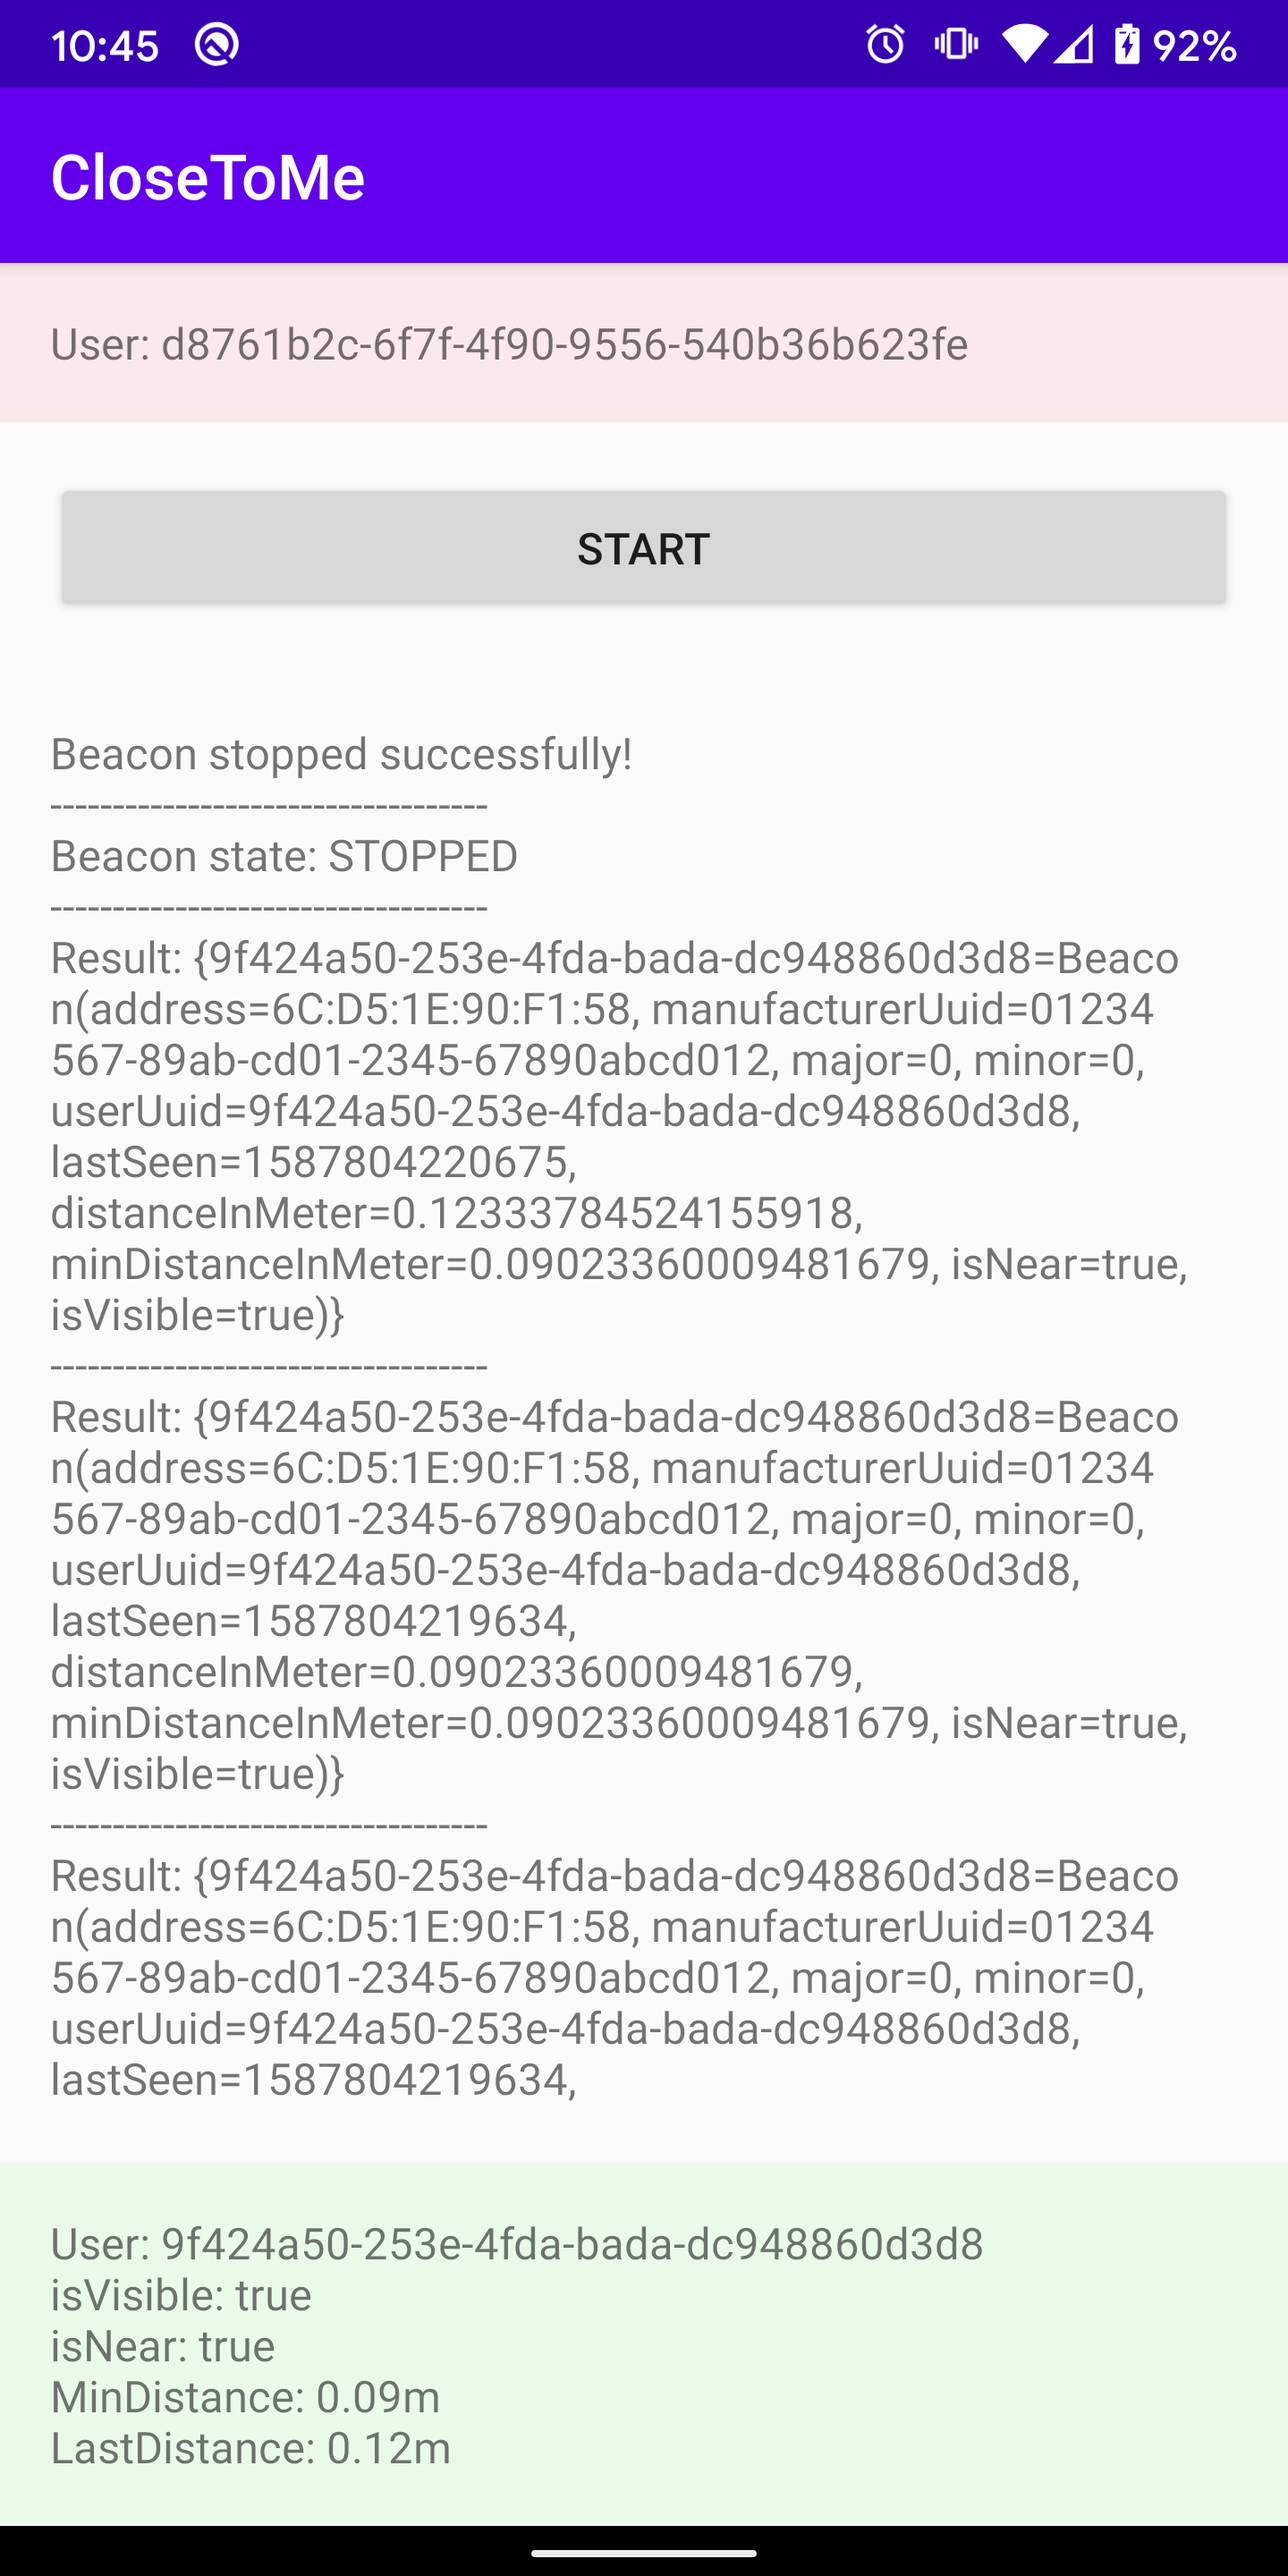
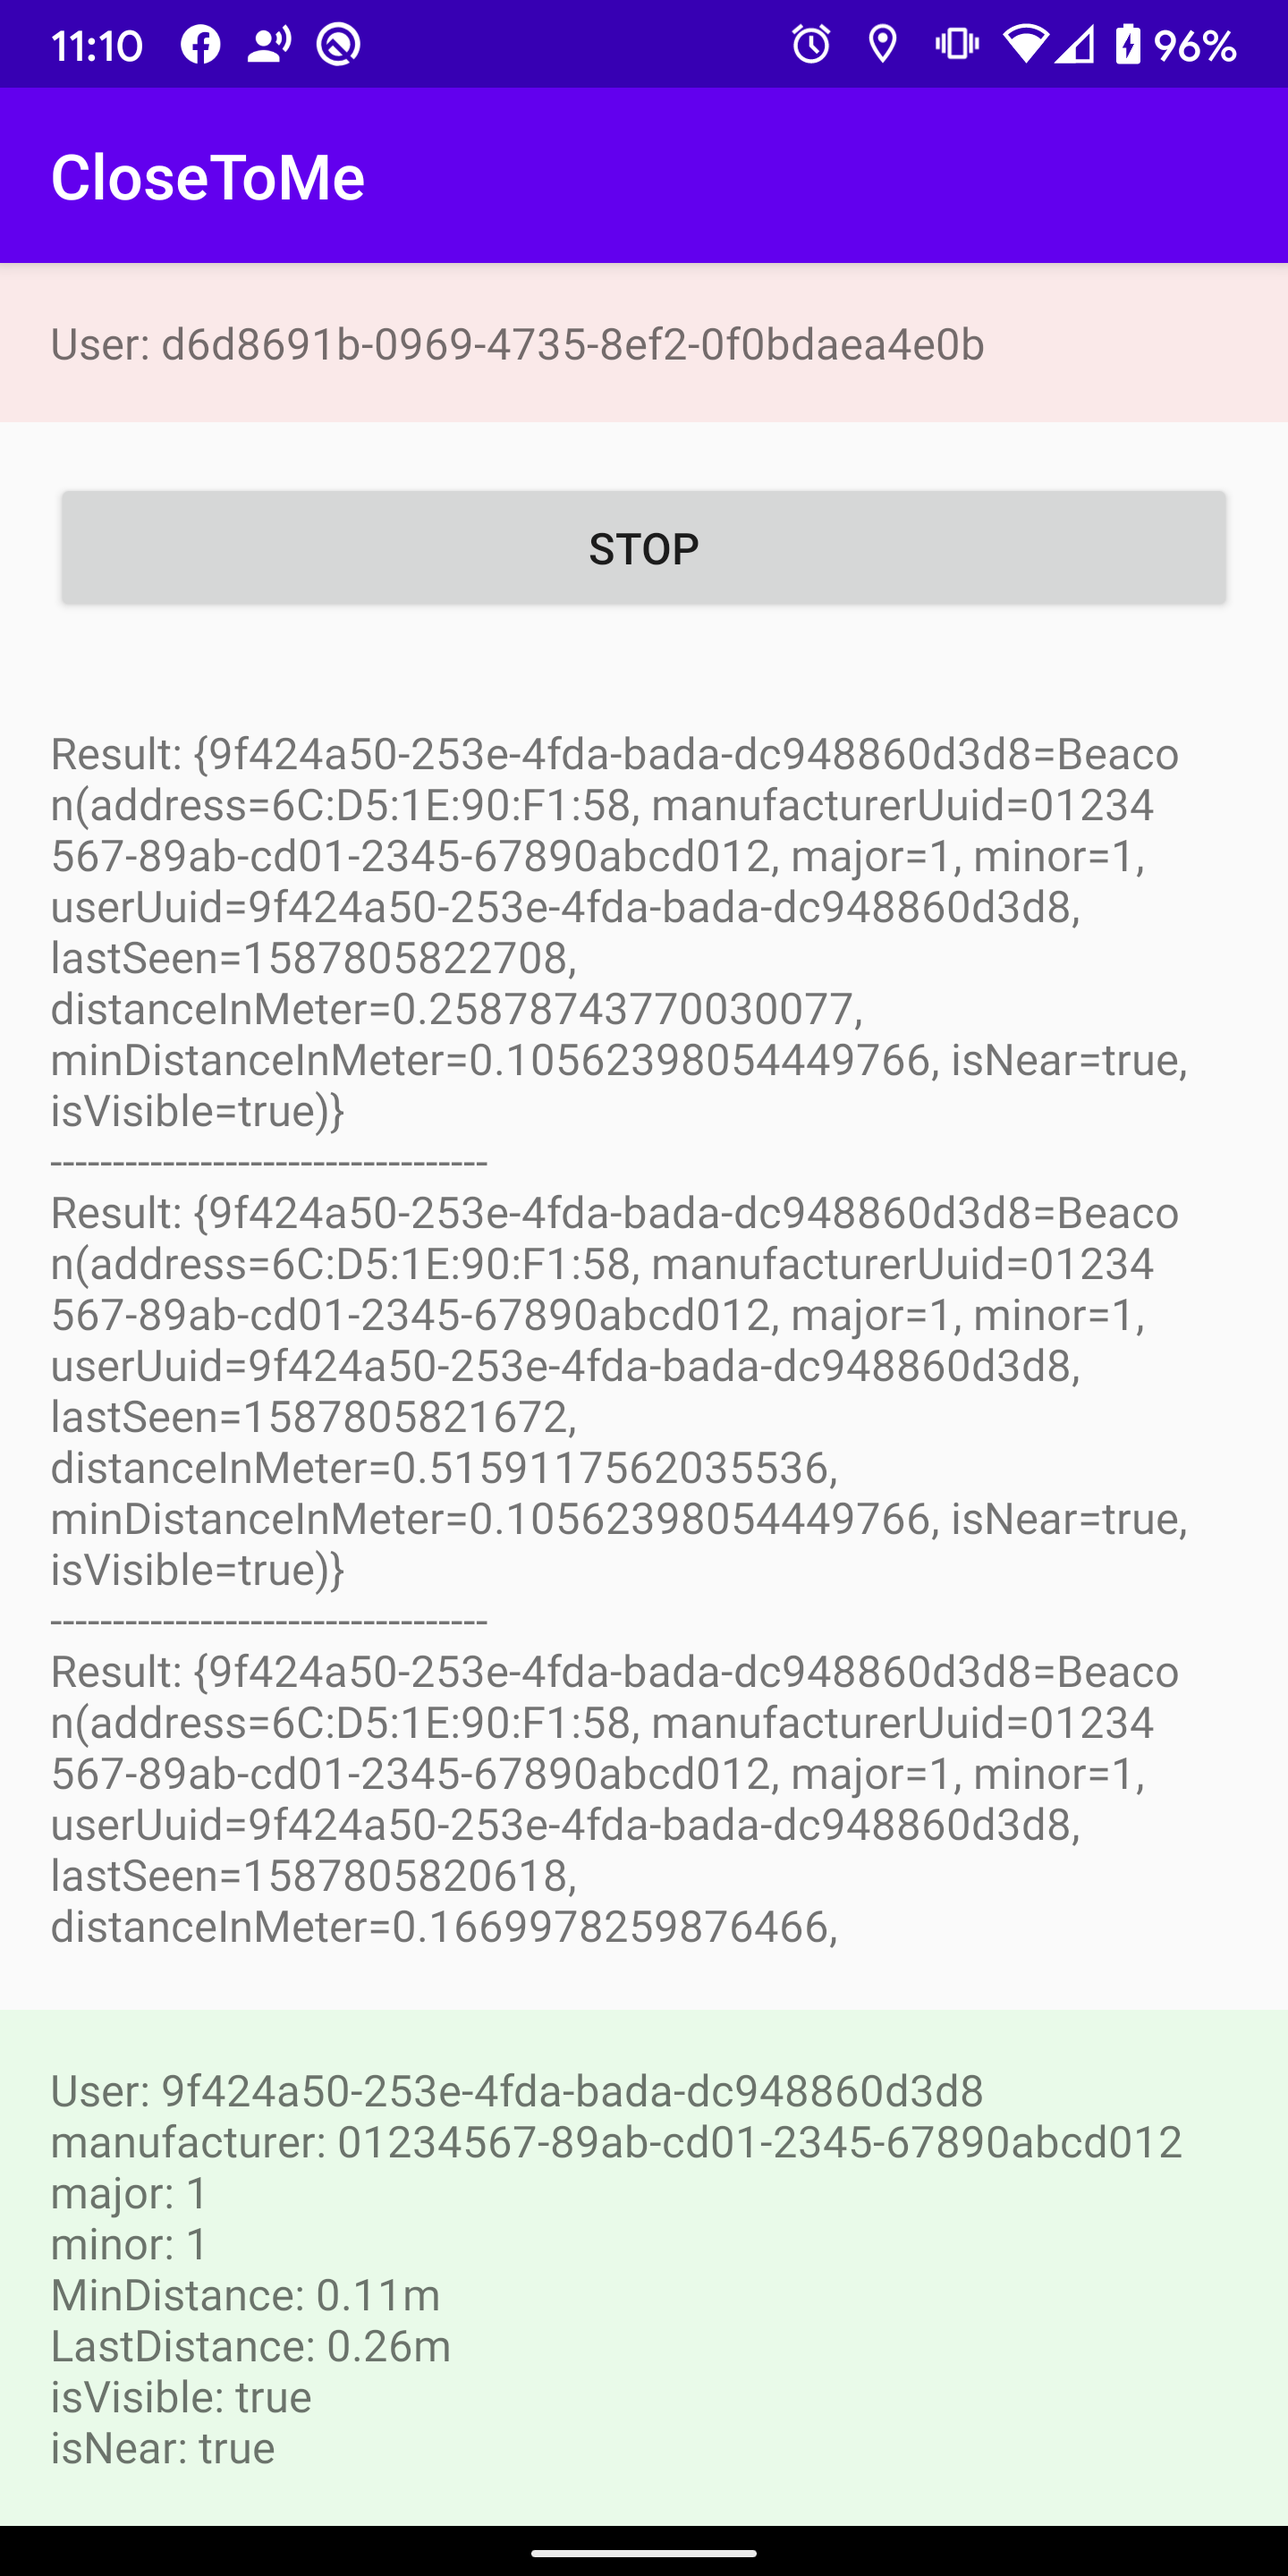
Fix Major and Minor wrong calculation

diff --git a/sample-app/src/main/java/com/mohsenoid/closetome/sample/MainActivity.kt b/sample-app/src/main/java/com/mohsenoid/closetome/sample/MainActivity.kt
@@ -122,12 +122,15 @@ class MainActivity : AppCompatActivity() {
                 })
 
                 it.results.observe(this, Observer { beacons ->
-                    binding.result.text = beacons.values.joinToString("\n--------------------------------\n") {
-                        "User: ${it.userUuid}\n" +
-                            "isVisible: ${it.isVisible}\n" +
-                            "isNear: ${it.isNear}\n" +
-                            "MinDistance: ${"%.2f".format(it.minDistanceInMeter)}m\n" +
-                            "LastDistance: ${"%.2f".format(it.distanceInMeter)}m"
+                    binding.result.text = beacons.values.joinToString("\n--------------------------------\n") { beacon ->
+                        "User: ${beacon.userUuid}\n" +
+                            "manufacturer: ${beacon.manufacturerUuid}\n" +
+                            "major: ${beacon.major}\n" +
+                            "minor: ${beacon.minor}\n" +
+                            "MinDistance: ${"%.2f".format(beacon.minDistanceInMeter)}m\n" +
+                            "LastDistance: ${"%.2f".format(beacon.distanceInMeter)}m\n" +
+                            "isVisible: ${beacon.isVisible}\n" +
+                            "isNear: ${beacon.isNear}"
                     }
 
                     log("Result: $beacons")

diff --git a/closetome/src/main/java/com/mohsenoid/closetome/scanner/BeaconScannerImpl.kt b/closetome/src/main/java/com/mohsenoid/closetome/scanner/BeaconScannerImpl.kt
@@ -123,7 +123,7 @@ internal class BeaconScannerImpl(
             val majorSecondByte = scanRecord?.bytes?.get(23)
 
             if (majorFirstByte != null && majorSecondByte != null) {
-                major = (majorFirstByte.toInt() shl 8 and majorFirstByte.toInt()).toUShort()
+                major = ((majorFirstByte.toInt() shl 8) + majorSecondByte.toInt()).toUShort()
             }
         } finally {
             return major
@@ -138,7 +138,7 @@ internal class BeaconScannerImpl(
             val minorSecondByte = scanRecord?.bytes?.get(25)
 
             if (minorFirstByte != null && minorSecondByte != null) {
-                minor = (minorFirstByte.toInt() shl 8 and minorFirstByte.toInt()).toUShort()
+                minor = ((minorFirstByte.toInt() shl 8) + minorSecondByte.toInt()).toUShort()
             }
         } finally {
             return minor
